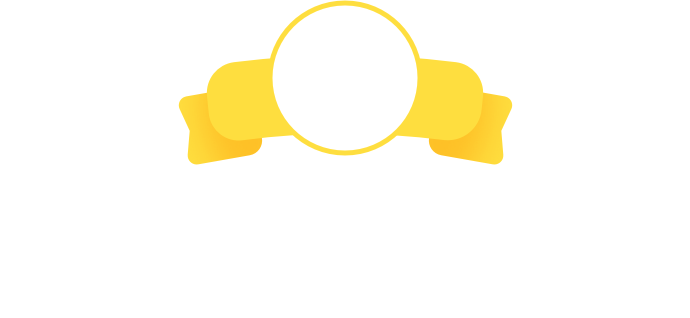
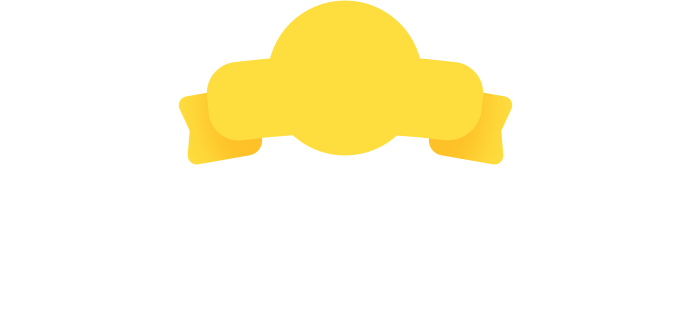
AIPL-12945: [fix] fix redirect index page bug

Changed region(s): [[0.3957, 0.0, 0.6087, 0.4811]]

diff --git a/src/pages/playing/index.vue b/src/pages/playing/index.vue
@@ -10,7 +10,7 @@
       <img class="bg" :src="`${imgPath}/ai_mina/playing/bg-top.png`" alt="">
       <img class="avatar" :src="report.thumb" alt="">
       <div class="box" id="box">
-        <img class="desc-bg-top" :src="`${imgPath}/ai_mina/playing/desc-bg-top.png`" alt="">
+        <img class="desc-bg-top" src="@/static/imgs/playing/desc-bg-top.png" alt="">
         <img class="desc-bg-bottom" :src="`${imgPath}/ai_mina/playing/desc-bg-bottom.png`" alt="">
         <div class="con-wrapper">
           <p class="nickname">{{report.name}}</p>
@@ -78,7 +78,8 @@
 
 <config>
 {
-  "navigationBarTitleText": "演奏分享"
+  "navigationBarTitleText": "演奏分享",
+  "restartStrategy": "homePageAndLatestPage"
 }
 </config>
 
@@ -222,7 +223,13 @@ export default {
       this.scene = options.scene
     }
   },
+  onSaveExitState: function() {
+    return {
+      expireTimeStamp: Date.now() + 24 * 60 * 60 * 1000 * 10 // 超时时刻
+    }
+  },
   onShow(options) {
+    console.log(options, 'onshow')
     console.log(this.scene, this.store.country_code, 'onshow')
     if (this.store.country_code) {
       this.form = {
